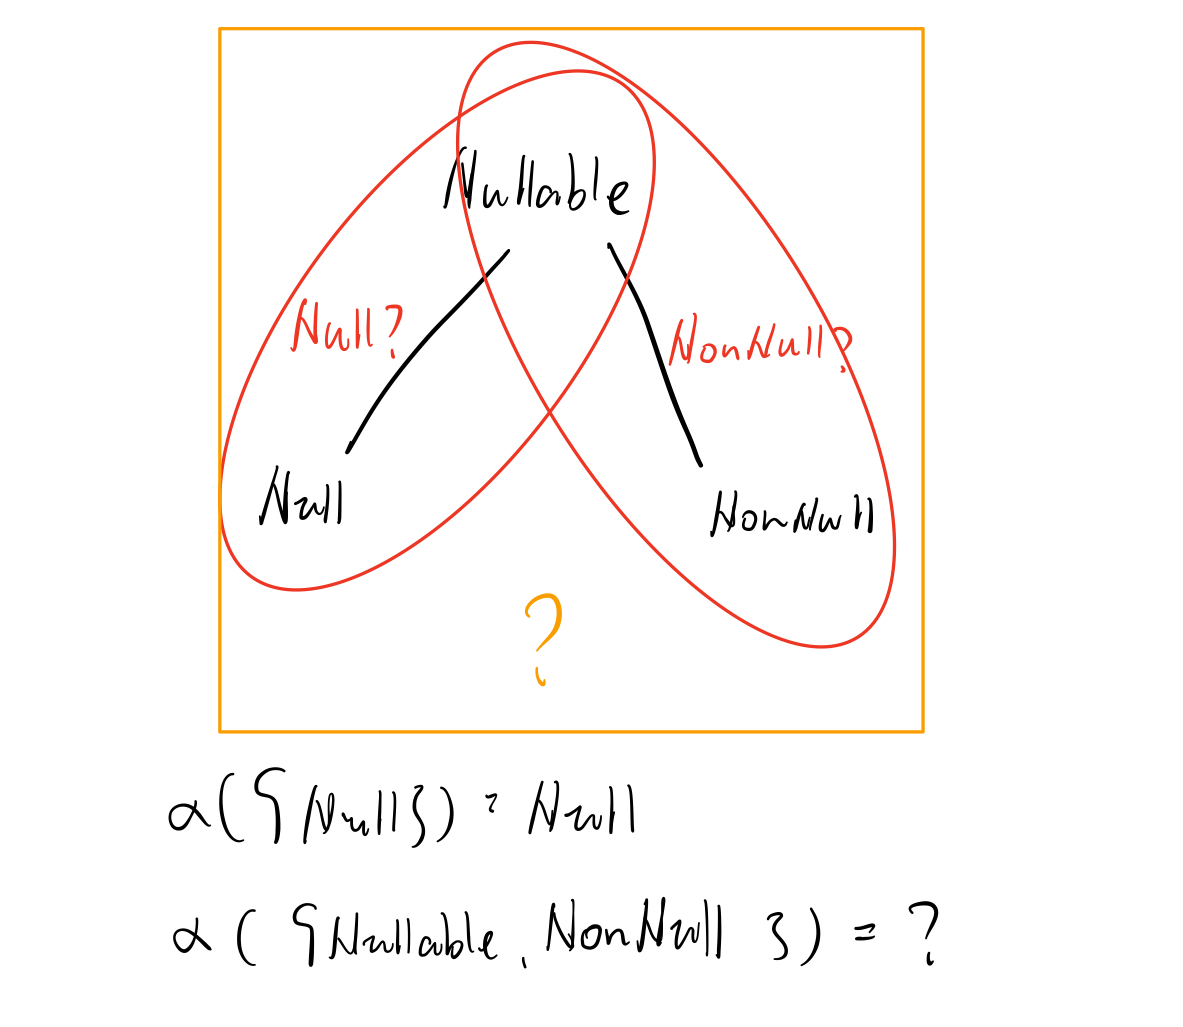
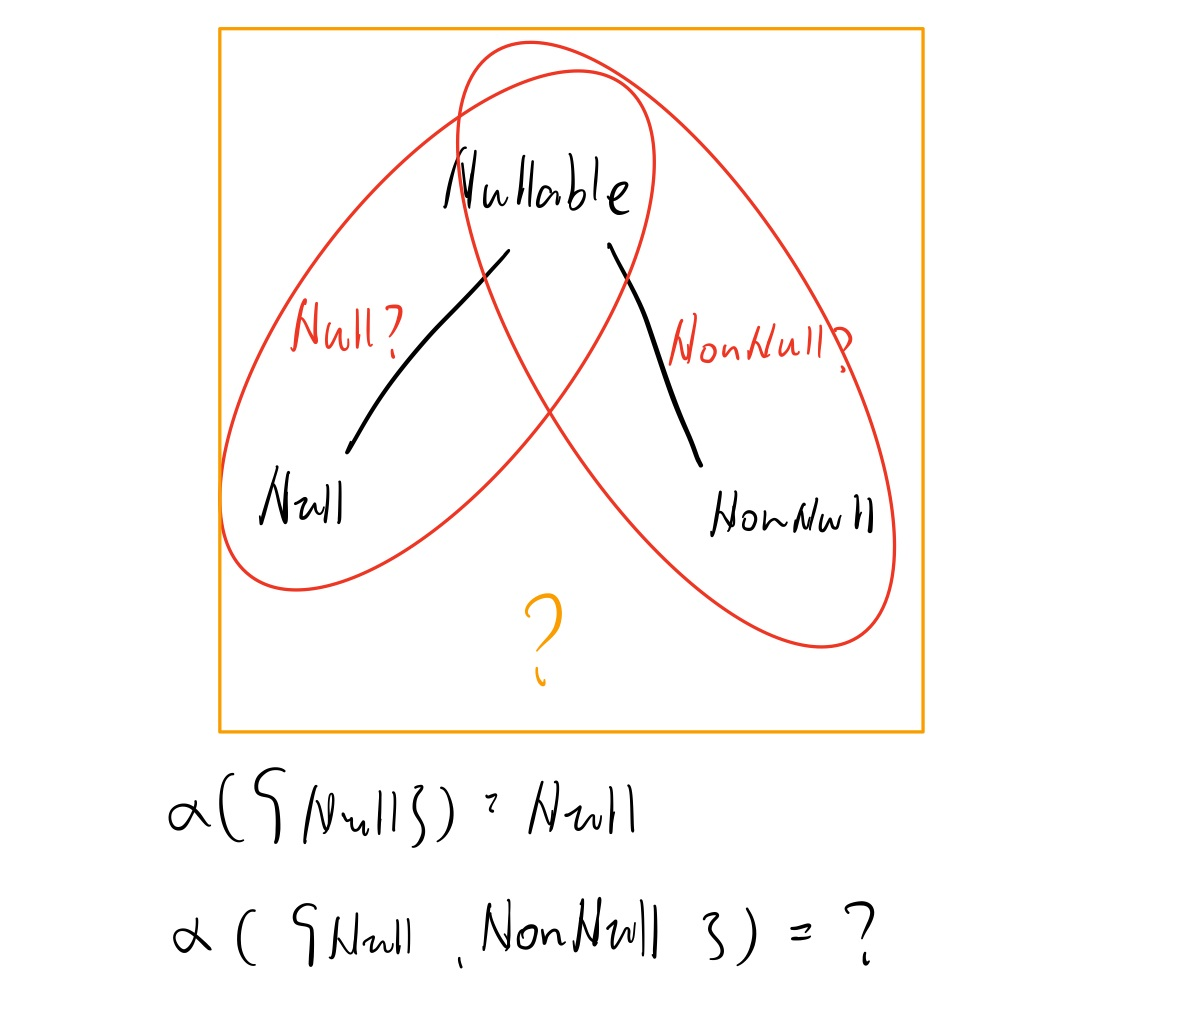
final

diff --git a/index.html b/index.html
@@ -61,7 +61,7 @@
 				</section>
 				<section>
 					<h2>Example of False Positive</h2>
-					<pre><code data-trim data-line-numbers>
+					<pre><code data-trim data-line-numbers="3|6|9">
 						class Main {
 							static      String reverse (String      str) {
 								if (str == null) return new String();
@@ -89,7 +89,7 @@
 				</section>
 				<section>
 					<h2>Example of False Negative</h2>
-					<pre><code>
+					<pre><code data-trim data-line-numbers="3|9|11">
 						class Main {
 							static      String reverse (String      str) {
 								if (str == null) return null;
@@ -124,7 +124,7 @@
 						<li class="fragment">乐观的静态检查减少FP + 动态检查保证soundness</li>
 					</ul>
 					<div class="r-stack">
-						<pre class="fragment fade-in-then-out" data-fragment-index=3><code> 
+						<pre class="fragment fade-in-then-out" data-fragment-index=3><code data-trim data-line-numbers> 
 							class Main {
 								static      String reverse (String      str) {
 									if (str == null) return new String();
@@ -140,7 +140,7 @@
 								}
 							}
 						</code></pre>
-						<pre class="fragment" data-fragment-index=4><code>
+						<pre class="fragment" data-fragment-index=4><code data-trim data-line-numbers>
 							class Main {
 								static      String reverse (String      str) {
 									if (str == null) return null;
@@ -230,11 +230,11 @@
 					</aside>
 				</section>
 				<section>
-					<h2>A Static Null-Pointer Analysis for PICL</h2>
+					<h2>NPA: A Static Null-Pointer Analysis for PICL</h2>
 					<ul>
 						<li class="fragment">我们先介绍纯静态分析的过程</li>
 						<li class="fragment">假设所有标注都打上了，也就是没有“?”的情况</li>
-						<li class="fragment">我们将证明在这种情况下静态分析是sound的</li>
+						<li class="fragment">证明在这种情况下静态分析是sound的</li>
 					</ul>
 				</section>
 				<section>
@@ -298,13 +298,13 @@
 					</aside>
 				</section>
 				<section>
-					<h2>Gradual Null-Pointer Analysis</h2>
+					<h2>GNPA: Gradual Null-Pointer Analysis</h2>
 					<ul>
 						<li class="fragment" data-fragment-index=1>考虑缺失标注的情况，对原来NPA进行升级</li>
 						<li class="fragment" data-fragment-index=2>数据流值
 							<ul>
 								<li class="fragment" data-fragment-index=3>新状态代表为旧状态的一个集合</li>
-								<li class="fragment" data-fragment-index=4>NonNull, Null, NonNull的集合只包含它们自己</li>
+								<li class="fragment" data-fragment-index=4>NonNull, Null, Nullable的集合只包含它们自己</li>
 								<li class="fragment" data-fragment-index=5>带问号的新状态的集合则代表由多个个旧状态组成</li>
 							</ul>
 						</li>
@@ -413,18 +413,21 @@
 				<section>
 					<h2>Dynamic Checking</h2>
 					<img src="assets/dynamic check.png">
-					<img src="assets/dynamic check example.PNG" class="r-stretch">
+					<img src="assets/dynamic check example.jpg" class="r-stretch">
 					<aside class="notes">
 						之前说了，他们的分析会进行动态检查来保证soundness。然而动态检查是有选择性的。
 						我们前面看到，只要变量的状态里面有个一个元素小于等于safe里面的元素就算过，这是非常宽松的。
 
-						动态检查的位置是：当变量的新状态里面的元素存在大于safe的上界，就检查。
+						动态检查的位置是：当变量的新状态里面的元素存在不小于等于safe的上界，就检查。
+
+						所以，没有加标注的方法入口和返回的时候，不会进行动态检查。
+						需要动态检查的是那些加了标注的方法和解引用
 					</aside>
 				</section>
 				<section>
 					<h2> Gradual Properties</h2>
 					<ul>
-						<li class="fragment" data-fragment-index=1>渐进分析是和静态分析兼容。当标注全部打上，渐进分析的效果和上面说的静态分析应该一样
+						<li class="fragment" data-fragment-index=1>渐进分析是和静态分析兼容(conservative extension)。当标注全部打上，渐进分析的效果和上面说的静态分析应该一样
 							<ul>
 								<li class="fragment" data-fragment-index=1>conservative static extension</li>
 								<li class="fragment" data-fragment-index=1>conservative dynamic extension</li>
@@ -445,11 +448,11 @@
 					<aside class="notes">
 						接着他形式化证明了他的渐进分析的一些性质。
 						
-						值得注意的是，这里的动态模型中添加了error状态，就是动态检查后报错的状态。
+						值得注意的是，这里的运行时模型中添加了error状态，就是动态检查后报错的状态。
 						他把error状态看作是定义内的行为，所以动态报错就不算做程序异常或者crash.
 						所以把动态检查算在内，程序是sound的。可是我有个疑惑，这样任何jvm上跑的程序都是sound的了？
 
-						接着他证明，这个概念来自于另外一篇论文。
+						这个概念来自于另外一篇论文。
 			
 						因此这两条保证了。
 					</aside>
@@ -469,6 +472,9 @@
 						<img src="assets/static grudual guarantee.png">
 						<img src="assets/dynamic grudual guarantee.png">
 					</div>
+					<aside class="notes">
+						p2比p1缺了一些标注。
+					</aside>
 				</section>
 				<section>
 					<h2>Prototype</h2>
@@ -491,16 +497,18 @@
 				<section>
 					<h2>Result</h2>
 					<ul>
-						<li class="fragment">静态警告
+						<li class="fragment" data-fragment-index=0>静态警告
 							<ul>
-								<li class="fragment"> Eradicate: 1489, NullSafe: 654, Graduator: 228, NullAway: 0</li>
-								<li class="fragment">怎么还有FP？：不是由标注缺失引起的；由于对域的处理不是流敏感的</li>
+								<li class="fragment" data-fragment-index=1> Eradicate: 1489, NullSafe: 654, Graduator: 228, NullAway: 0</li>
+								<li class="fragment">怎么还有FP？
+									<ul>
+										<li class="fragment">不是由标注缺失引起的，其他的不精确</li>
+										<li class="fragment">由于对域的处理不是流敏感的</li>
+									<ul></li>
 							</ul></li>
 					</ul>
+					<img src="assets/static check result.png" class="fragment" data-fragment-index=1>
 					<aside class="notes">
-
-						第一栏是jvm自己添加的解引用时的检查。第二栏说用了我的渐进分析后，这些检查都不需要了。
-						平均清除67%
 					</aside>
 				</section>
 				<section>
@@ -513,13 +521,18 @@
 							</ul>
 						</li>
 					</ul>
-					<img src="assets/dynamic check result.png" class="fragment r-stretch">
+					<img src="assets/dynamic check result.png" class="fragment">
+					<aside class="notes">
+						
+						第一栏是jvm自己添加的解引用时的检查。第二栏说用了我的渐进分析后，这些检查都不需要了。
+						平均清除67%
+					</aside>
 				</section>
 				<section>
 					<h2>Conclusion</h2>
 					<ul>
 						<li  class="fragment">构造了一个框架，能把基于标注的静态分析变成渐进的</li>
-						<li class="fragment">这个渐进分析是静态分析的consrvative extension，且满足gradul guarantee</li>
+						<li class="fragment">这个渐进分析是静态分析的conservative extension，且满足gradual guarantee</li>
 						<li class="fragment">安全的静态分析能够避免冗余的动态检查；不安全的静态分析能够减少FP；GPNA能同时减少FP，且避免冗余的动态检查</li>
 					</ul>
 				</section>
